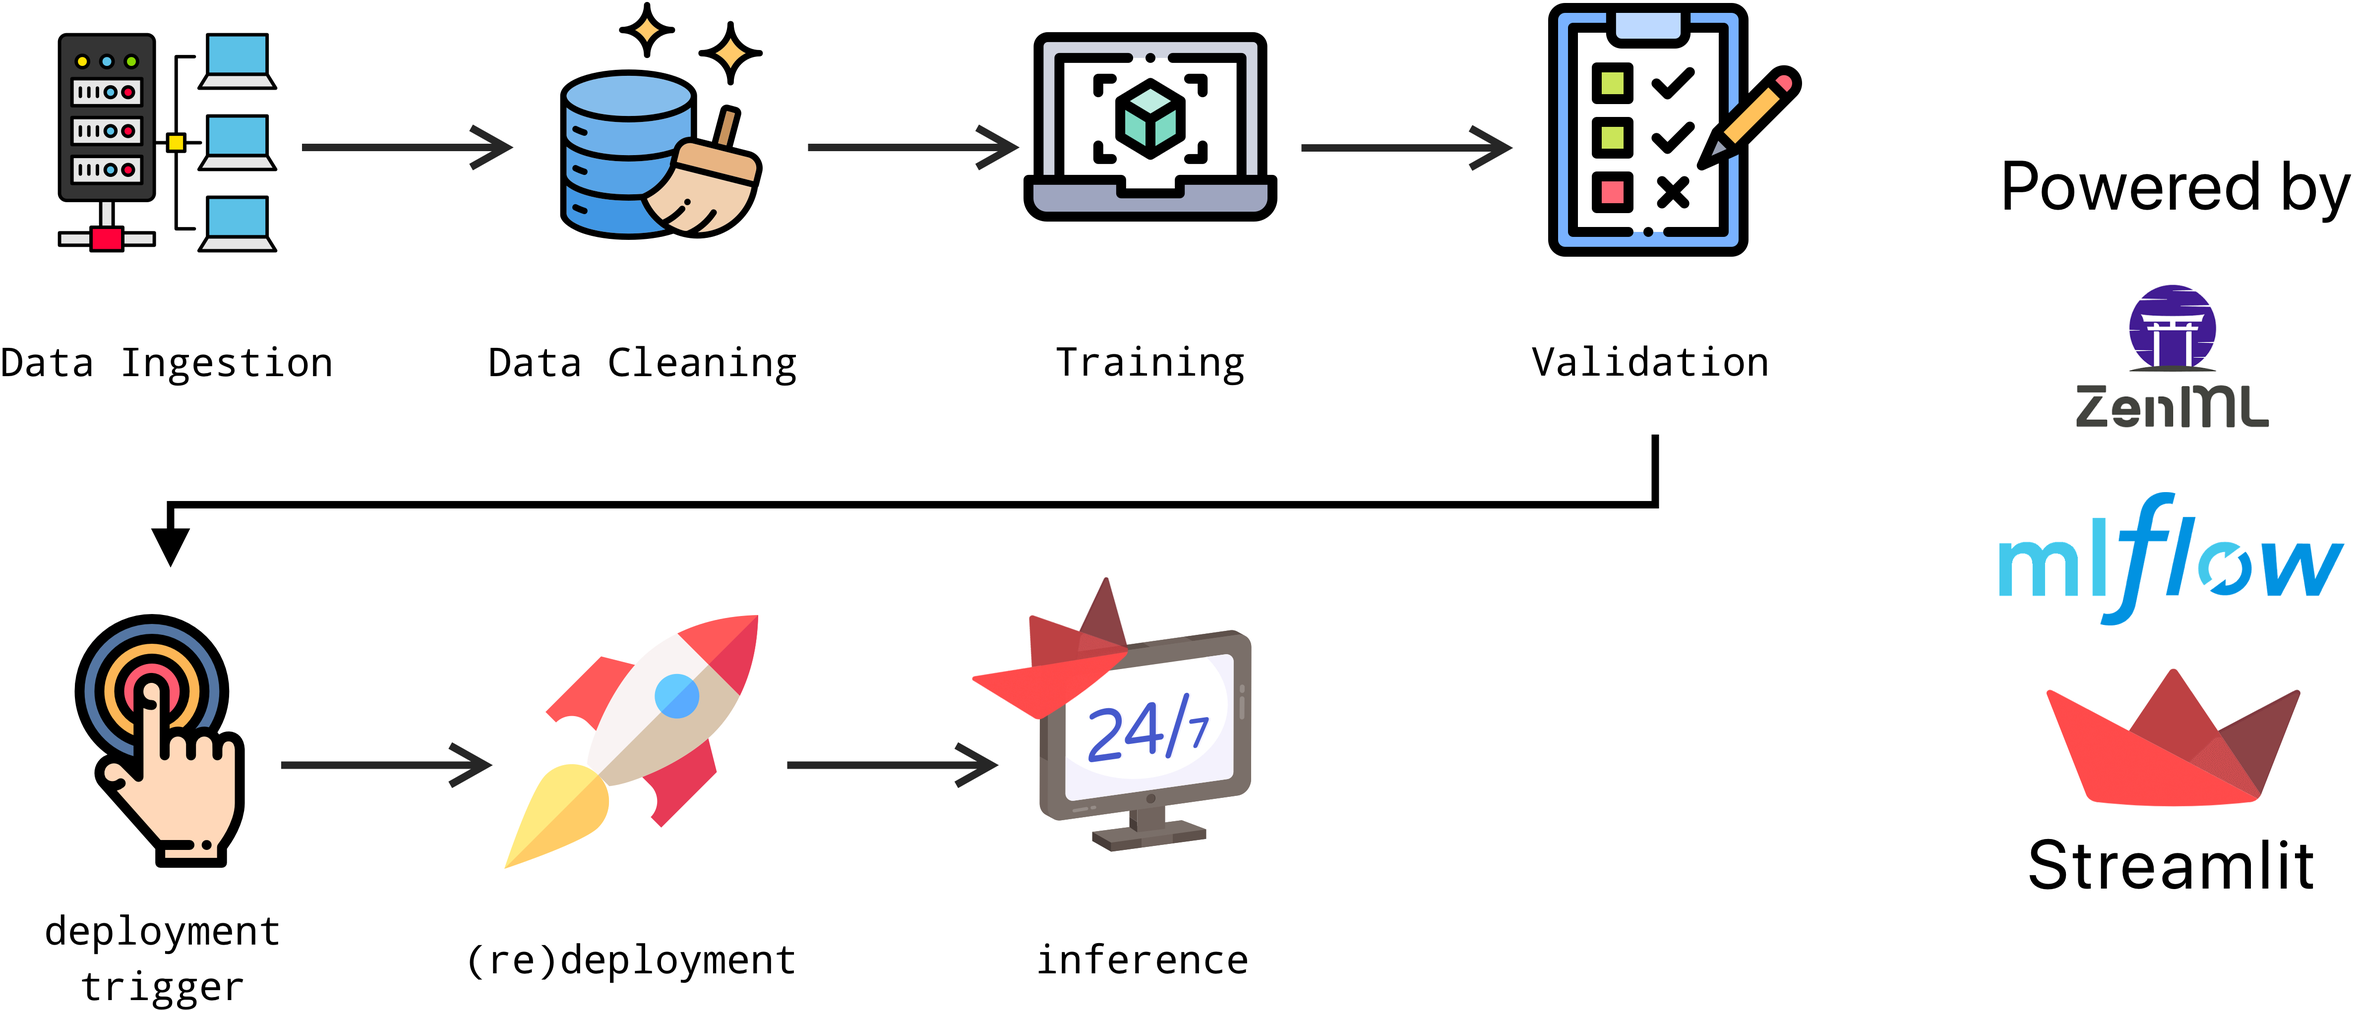
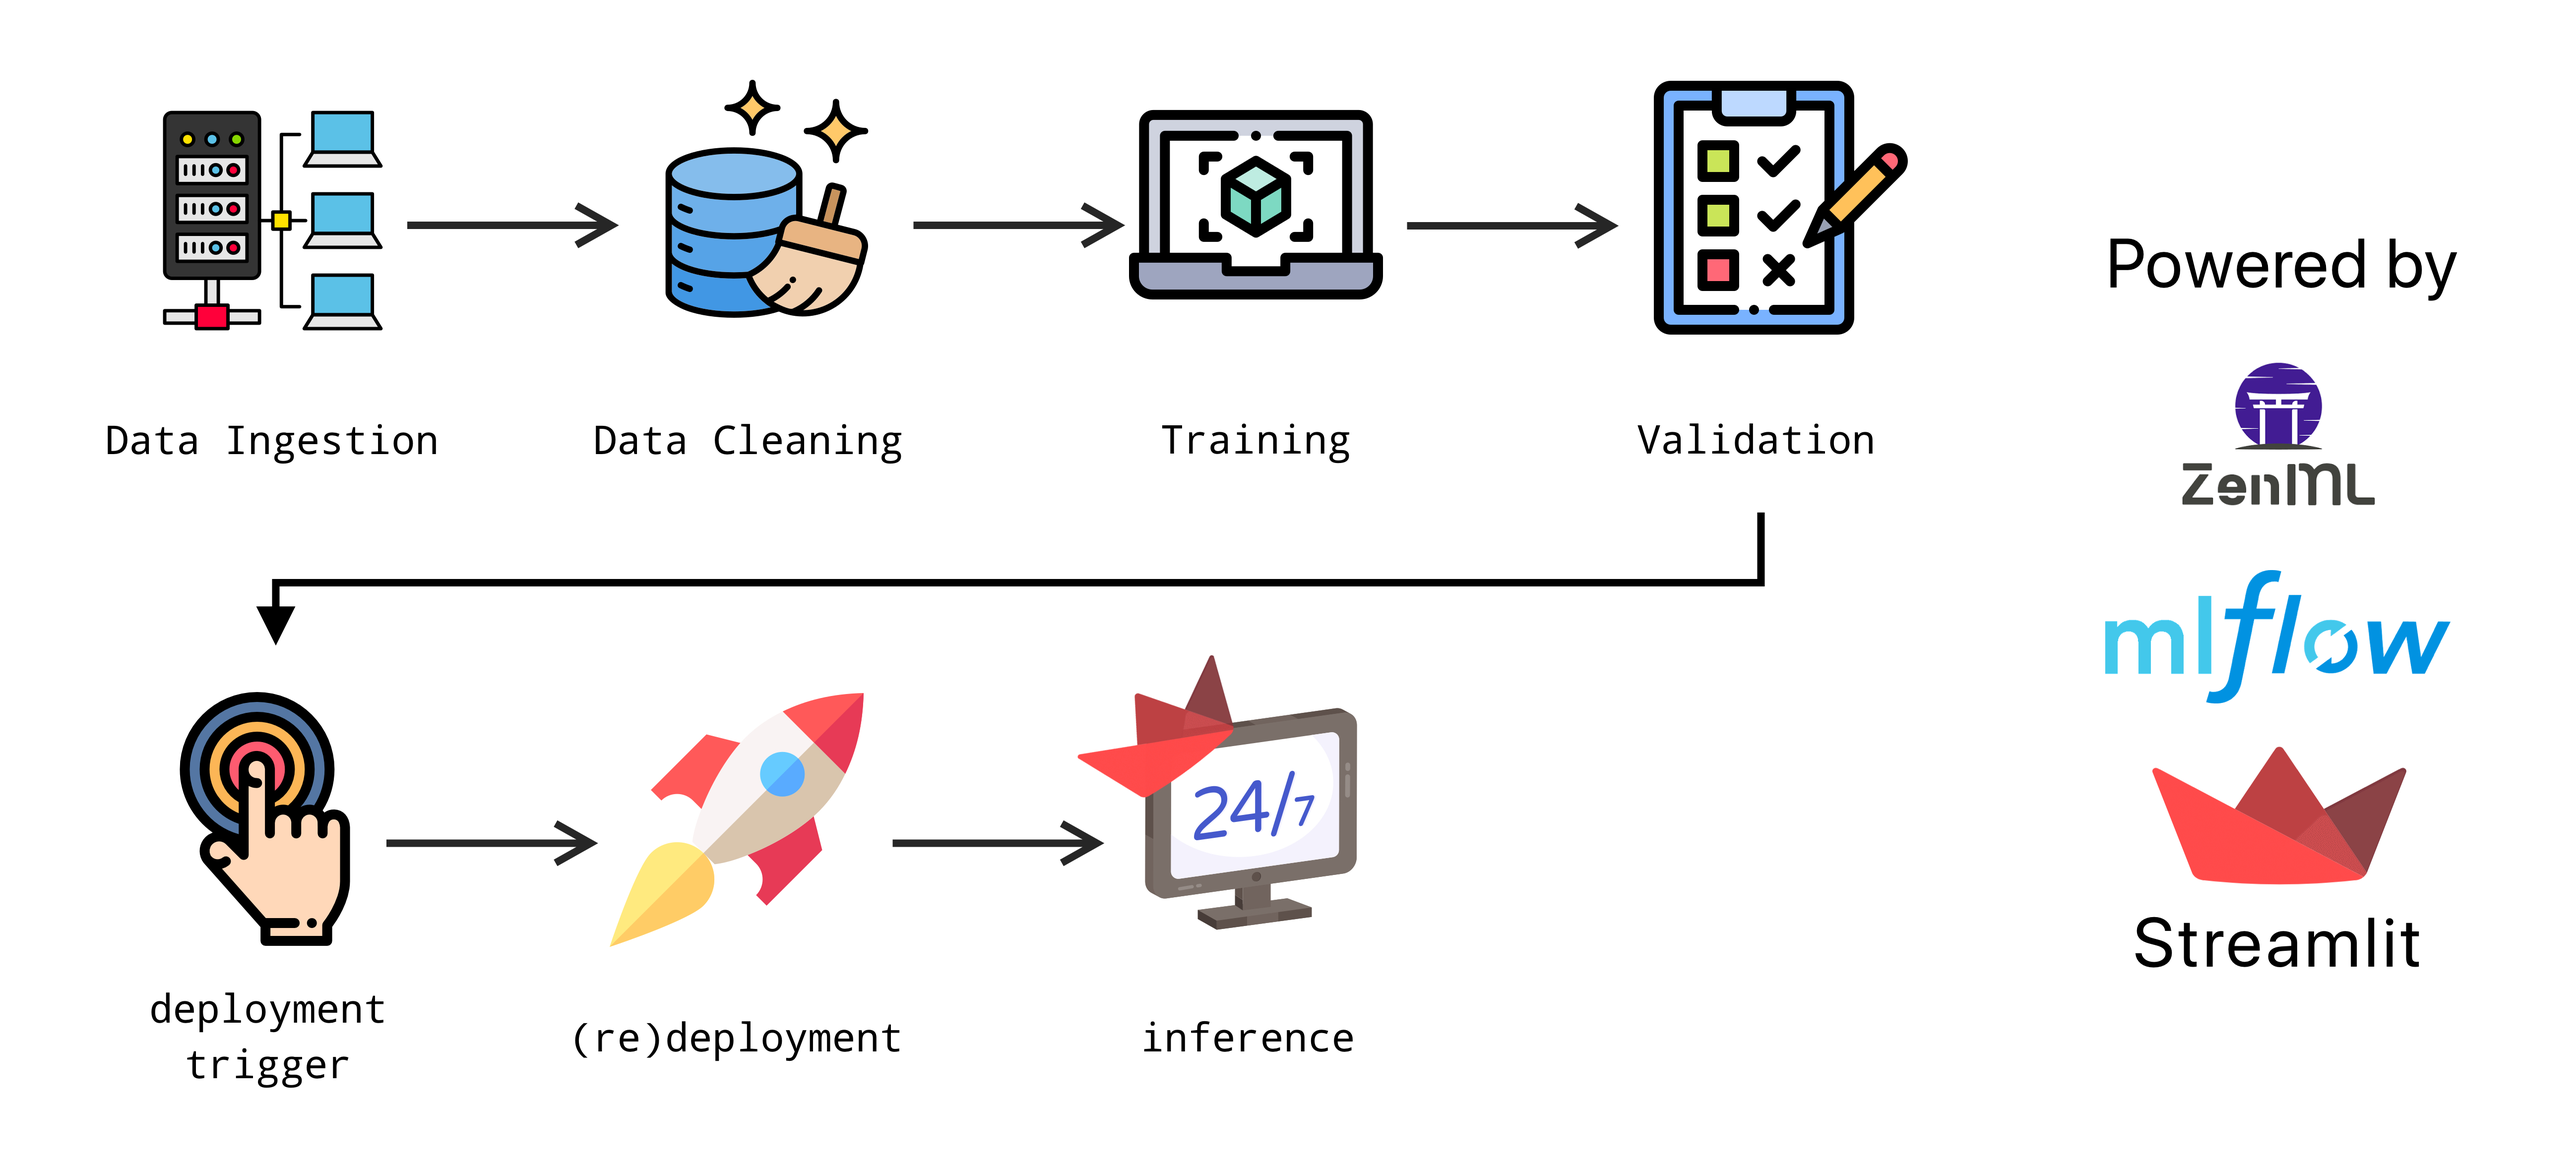
iris readme and pipeline image updated

diff --git a/iris_deploy_zenml/README.md b/iris_deploy_zenml/README.md
@@ -1,6 +1,9 @@
 # Running a simple ML pipeline, monitoring and making inference
 
+<div align="center"> 
 <img src="assets/pipeline.jpg" width="600">
+</div> 
+
 
 - First the data is ingested and cleaned, then the model is trained, and evaluated. If data source changes or any hyperparameter values changes, deployment will be triggered, and the model is (re)trained; if the model meets minimum accuracy requirement, it will be deployed.
 - This app is designed to predict the type of flowers from Iris dataset based on four features using Support Vector Classifier (about [Iris dataset](https://archive.ics.uci.edu/dataset/53/iris)).
